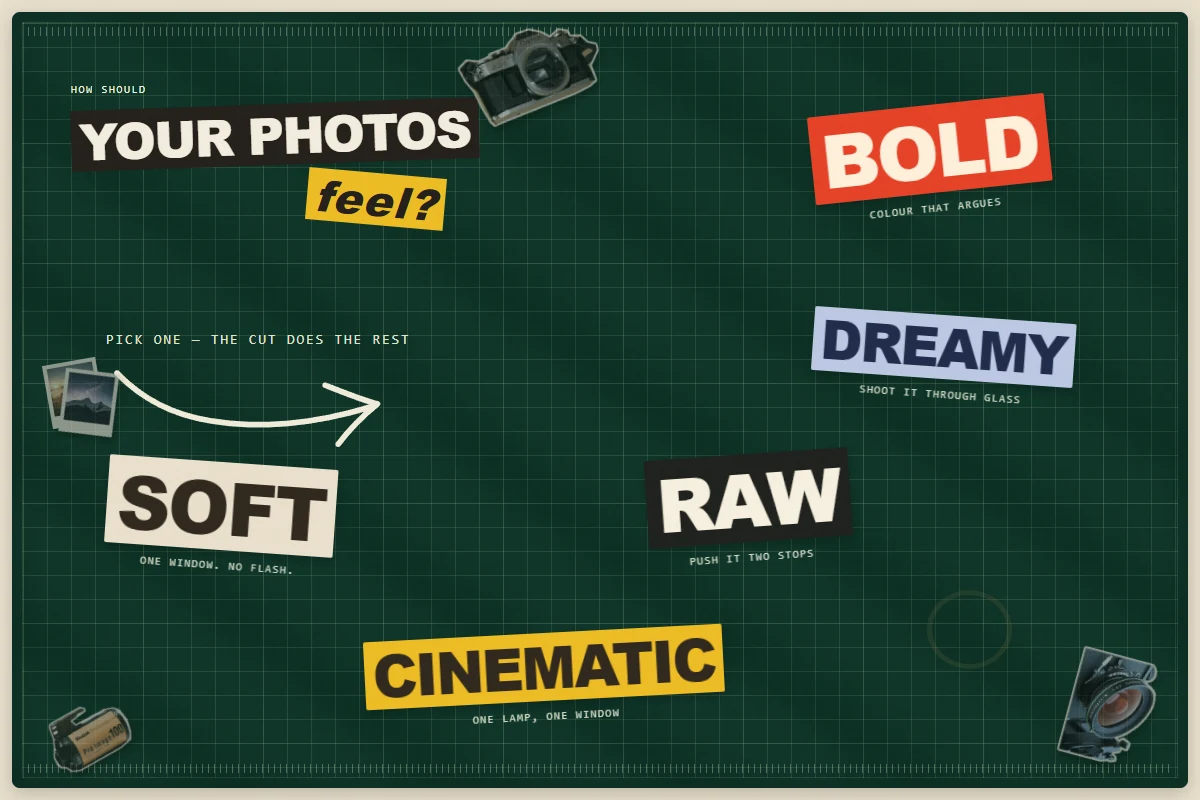
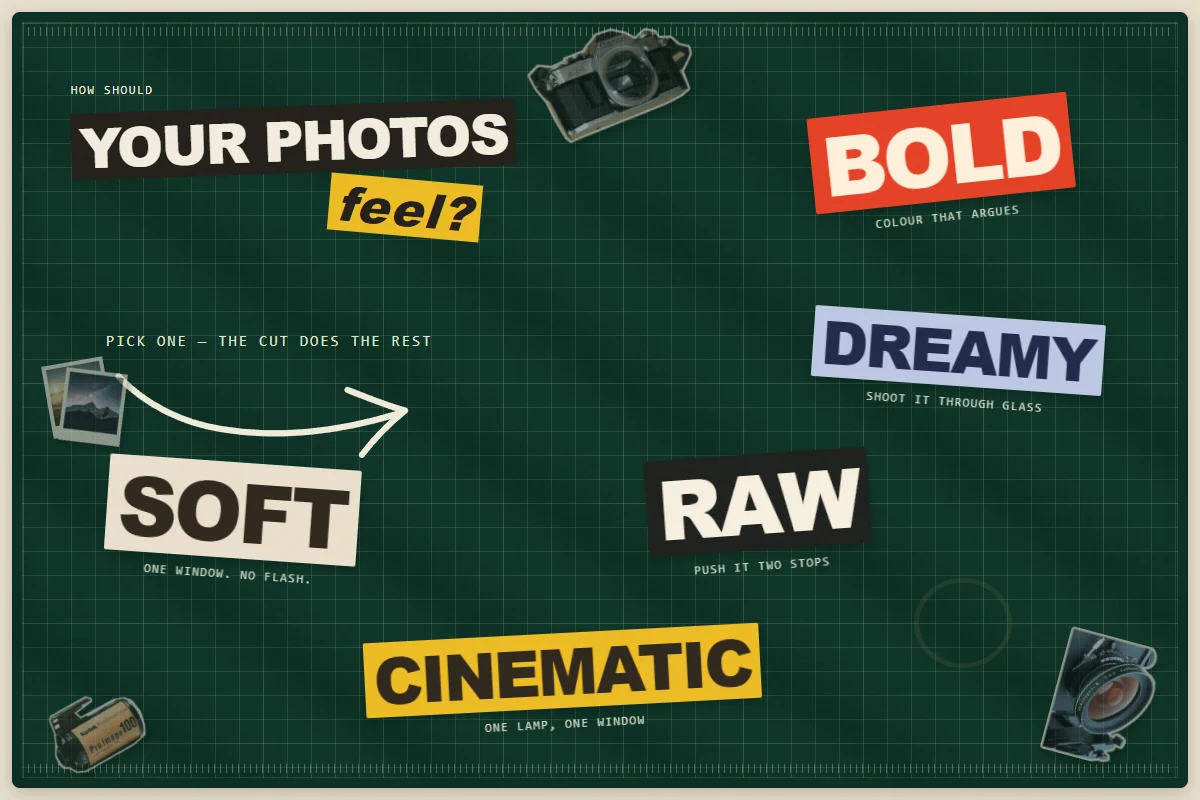
feat(components): add pop-in effects for each sticker component on the board, going down from the top to bottom

diff --git a/public/components/cutout.html b/public/components/cutout.html
@@ -117,7 +117,7 @@
         top: 9%;
         margin: 0;
         color: var(--paper);
-        font: 11px/1.4 monospace;
+        font: 12px/1.4 monospace;
         letter-spacing: 0.14em;
       }
       .question strong {
@@ -128,7 +128,7 @@
         background: #231f19;
         color: #f3eddf;
         font:
-          900 clamp(20px, 4.2vw, 64px) / 1.1 Arial,
+          900 clamp(22px, 4.6vw, 70px) / 1.1 Arial,
           sans-serif;
         letter-spacing: -0.03em;
         transform: rotate(-2deg);
@@ -141,7 +141,7 @@
         background: #edbc23;
         color: #231f19;
         font:
-          italic 900 clamp(20px, 3.6vw, 54px) / 1.1 Arial,
+          italic 900 clamp(22px, 4vw, 60px) / 1.1 Arial,
           sans-serif;
         transform: rotate(5deg);
       }
@@ -150,12 +150,12 @@
         top: 39%;
         left: 8%;
         color: #e0e5ce;
-        font: clamp(8px, 1.3vw, 14px) / 1.5 monospace;
+        font: clamp(9px, 1.4vw, 15px) / 1.5 monospace;
         letter-spacing: 0.13em;
       }
       .prompt-arrow {
         display: block;
-        width: clamp(150px, min(26vw, 38vh), 300px);
+        width: clamp(165px, min(29vw, 42vh), 330px);
         height: auto;
         margin: 8px 0 0 -5px;
         overflow: visible;
@@ -193,7 +193,7 @@
         border-radius: 2px;
         box-shadow: 1px 4px 7px #0003;
         font:
-          900 clamp(20px, 6.2vw, 82px) / 1.1 Arial,
+          900 clamp(22px, 6.8vw, 90px) / 1.1 Arial,
           Helvetica,
           sans-serif;
         letter-spacing: -0.035em;
@@ -202,7 +202,7 @@
         display: block;
         margin-top: 9px;
         color: #d3ddc7;
-        font: clamp(6px, 0.95vw, 11px) / 1.3 monospace;
+        font: clamp(7px, 1.05vw, 12px) / 1.3 monospace;
         text-transform: uppercase;
         letter-spacing: 0.12em;
       }
@@ -290,7 +290,7 @@
         --type: #202b4b;
       }
       .mood[data-mood='dreamy'] .paper {
-        font-size: clamp(17px, 4.5vw, 63px);
+        font-size: clamp(19px, 5vw, 69px);
       }
       .mood[data-mood='cinematic'] {
         left: 30%;
@@ -300,7 +300,7 @@
         --type: #30271d;
       }
       .mood[data-mood='cinematic'] .paper {
-        font-size: clamp(20px, 4.8vw, 65px);
+        font-size: clamp(22px, 5.3vw, 71px);
       }
       .desk-sticker {
         position: absolute;
@@ -316,25 +316,25 @@
         height: auto;
       }
       .camera {
-        width: clamp(70px, 12vw, 160px);
-        left: 38%;
+        width: clamp(82px, 14vw, 185px);
+        left: 44%;
         top: 2%;
         transform: rotate(-11deg);
       }
       .film {
-        width: clamp(50px, 7vw, 100px);
+        width: clamp(58px, 8.2vw, 116px);
         left: 3%;
         bottom: 3%;
         transform: rotate(-24deg);
       }
       .lens {
-        width: clamp(55px, 8vw, 105px);
+        width: clamp(64px, 9.3vw, 122px);
         right: 2%;
         bottom: 3%;
         transform: rotate(15deg);
       }
       .prints {
-        width: clamp(40px, 4.5vw, 64px);
+        width: clamp(47px, 5.2vw, 74px);
         left: 3%;
         top: 45%;
         transform: rotate(-10deg);
@@ -354,8 +354,8 @@
       }
       .coffee {
         position: absolute;
-        width: 85px;
-        height: 85px;
+        width: 98px;
+        height: 98px;
         border: 5px solid #8a71432b;
         border-radius: 50%;
         bottom: 15%;
@@ -622,8 +622,8 @@
         position: fixed;
         top: 0;
         left: 0;
-        width: 34px;
-        height: 42px;
+        width: 38px;
+        height: 47px;
         pointer-events: none;
         z-index: 30;
         filter: drop-shadow(2px 3px 2px #0007);
@@ -643,26 +643,26 @@
           left: 8%;
         }
         .question strong {
-          font-size: 7vw;
+          font-size: 7.7vw;
         }
         .question em {
-          font-size: 7vw;
+          font-size: 7.7vw;
         }
         .camera {
           top: 4%;
           left: 70%;
-          width: clamp(45px, 12vw, 90px);
+          width: clamp(53px, 14vw, 105px);
         }
         .prompt {
           top: 31%;
           left: 10%;
-          font-size: 9px;
+          font-size: 10px;
         }
         .mood .paper {
-          font-size: 12vw;
+          font-size: 13.2vw;
         }
         .mood small {
-          font-size: 7px;
+          font-size: 8px;
         }
         .mood[data-mood='bold'] {
           left: 52%;
@@ -681,14 +681,14 @@
           top: 69%;
         }
         .mood[data-mood='dreamy'] .paper {
-          font-size: 8vw;
+          font-size: 8.8vw;
         }
         .mood[data-mood='cinematic'] {
           left: 14%;
           top: 84%;
         }
         .mood[data-mood='cinematic'] .paper {
-          font-size: 9vw;
+          font-size: 9.9vw;
         }
         .sheet {
           inset: 4%;
@@ -1230,6 +1230,7 @@
         }
         async function openSheet(button) {
           if (board.dataset.phase !== 'idle') return
+          finishEntrance()
           arrangement.stop()
           const token = ++run
           chosen = button
@@ -1912,6 +1913,60 @@
           }
         }
         const arrangement = createArrangement()
+        const entrance = new Set()
+        function finishEntrance() {
+          entrance.forEach((animation) => animation.cancel())
+          entrance.clear()
+        }
+        function enterBoard() {
+          if (reduced.matches) return
+          // Individual transforms leave the cards' rotation and drag geometry intact.
+          const pieces = [
+            ...board.querySelectorAll('.ruler'),
+            $('.question'),
+            $('.camera'),
+            $('[data-mood="bold"]'),
+            $('.prompt'),
+            $('.prints'),
+            $('[data-mood="dreamy"]'),
+            $('[data-mood="soft"]'),
+            $('[data-mood="raw"]'),
+            $('[data-mood="cinematic"]'),
+            $('.film'),
+            $('.lens'),
+            $('.coffee'),
+          ]
+            .filter((el) => el.getClientRects().length)
+            .sort((a, b) => a.offsetTop - b.offsetTop)
+          pieces.forEach((el, i) => {
+            const opacity = getComputedStyle(el).opacity
+            const animation = el.animate(
+              [
+                { opacity: 0, translate: '0 -24px', scale: '.8' },
+                {
+                  opacity,
+                  translate: '0 3px',
+                  scale: '1.035',
+                  offset: .7,
+                  easing: 'cubic-bezier(.4,0,.3,1)',
+                },
+                { opacity, translate: 'none', scale: '1' },
+              ],
+              { duration: 620, delay: i * 50, easing: ease, fill: 'both' },
+            )
+            entrance.add(animation)
+            animation.finished
+              .then(() => animation.cancel())
+              .catch(() => {})
+              .finally(() => entrance.delete(animation))
+          })
+        }
+        // An early interaction reveals the settled board before hit testing or cutting.
+        board.addEventListener('pointerdown', finishEntrance, { capture: true })
+        board.addEventListener('focusin', finishEntrance)
+        document.addEventListener('visibilitychange', () => {
+          if (document.hidden) finishEntrance()
+        })
         document.querySelectorAll('.mood').forEach((button) => {
           button.addEventListener('click', () => openSheet(button))
           button.addEventListener('pointerenter', ensureRoll, { once: true })
@@ -1926,7 +1981,10 @@
             closeSheet()
         })
         reduced.addEventListener('change', () => {
-          if (reduced.matches) animations.forEach((a) => a.finish())
+          if (reduced.matches) {
+            finishEntrance()
+            animations.forEach((a) => a.finish())
+          }
         })
         addEventListener('keydown', (e) => {
           if (e.key !== 'Escape') return
@@ -1946,6 +2004,7 @@
           if (next !== size && !['idle', 'open'].includes(board.dataset.phase))
             reset(false)
           if (next !== size) {
+            finishEntrance()
             if (chosen) chosen.style.transform = ''
             arrangement.measure()
           }
@@ -1982,6 +2041,7 @@
           cancelAnimationFrame(cursorFrame)
           cursorFrame = 0
         })
+        enterBoard()
       })()
     </script>
   </body>
